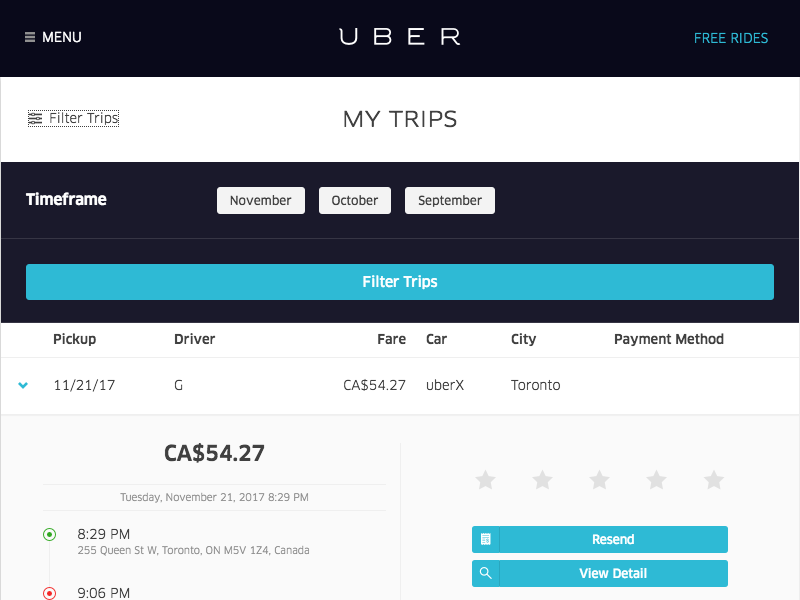
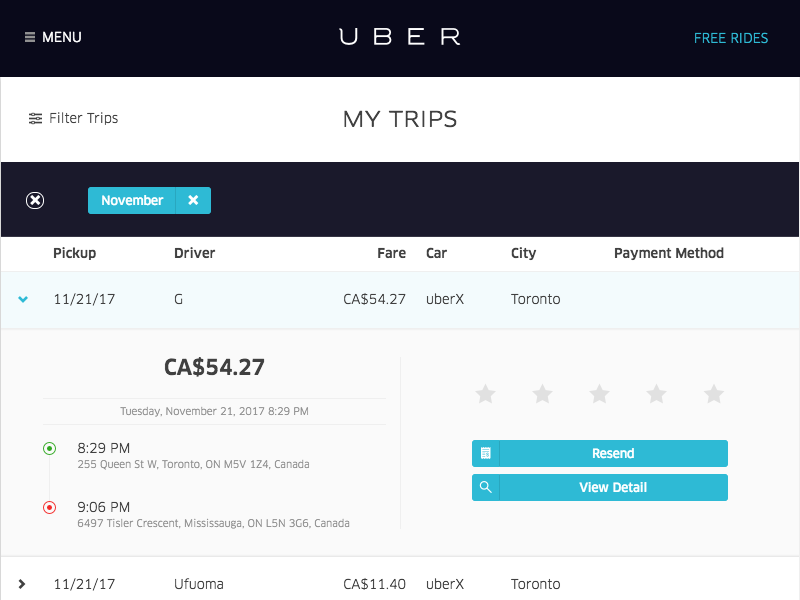
Made Filter work

diff --git a/index.js b/index.js
@@ -31,12 +31,6 @@ const VERIFY_BUTTON = '#app-body > div > div > form > button';
 const FILTER_TRIPS = '#slide-menu-content > div > div.flexbox__item.flexbox__item--expand > div > div > div.flexbox__item.four-fifths.page-content > div.hidden--palm > div > div > div.flexbox__item.one-third.text--left > a';
 const SUBMIT_FILTER = '#trip-filterer-button';
 
-// Sleep/delay Function
-function sleep(ms) {
-  return new Promise(resolve => setTimeout(resolve, ms));
-}
-
-prompt.start();
 
 async function run() {
   log(chalk.green.bold('Welcome to Get Receipt !\n'));
@@ -48,12 +42,15 @@ async function run() {
   const page = await browser.newPage();
 
   log(chalk.green('Setting user agent.'));
+
   // Set Random User Agent from array above
   await page.setUserAgent(desktop_agents[Math.floor(Math.random()*desktop_agents.length)]);
-
   log(chalk.green("Opening Uber's login screen.\n\n"))
+
+
   // Go to Login screen
   await page.goto('https://auth.uber.com/login/');
+  await page.waitFor(2 * 1000);
 
 
   log(chalk.green("Let's login to your Uber account."))
@@ -78,7 +75,7 @@ async function run() {
   await page.keyboard.type(email);
   await page.click(NEXT_BUTTON);
 
-  await sleep(1000);
+  await page.waitFor(2 * 1000);
 
   // Input Password for account
   await page.waitForSelector(PASSWORD_SELECTOR,200);
@@ -99,7 +96,7 @@ async function run() {
   await page.keyboard.type(password);
   await page.click(NEXT_BUTTON);
 
-  await sleep(1000);
+  await page.waitFor(2 * 1000);
 
   // Input SMS verification
   if(await page.$(SMS_SELECTOR) !== null) { // Check if we are on verification page first
@@ -116,15 +113,19 @@ async function run() {
       });
     })
     await page.click(SMS_SELECTOR);
-    await page.keyboard.type(code.verification_code);
+    await page.keyboard.type(code);
     await page.click(VERIFY_BUTTON);
   }
 
+  await page.waitFor(2 * 1000);
 
   /**
   * Main Dashboard
   */
   await page.goto('https://riders.uber.com');
+
+  await page.waitFor(2 * 1000);
+
 
   await page.waitForSelector(FILTER_TRIPS);
   await page.click(FILTER_TRIPS);
@@ -171,10 +172,20 @@ async function run() {
         choices: filterList
       }];
       inquirer.prompt(schema).then(answers => {
-        resolve(answers.filter);
+        const index = _.findIndex(filterList, { name: answers.filteroption });
+        resolve(filterList[index].id);
       })
     });
+
+    const FILTER_ITEM = "label[for="+filterSelected+"]";
+    
+      await page.waitFor(2 * 1000);
+    
+      await page.click(FILTER_ITEM);
+      await page.click(SUBMIT_FILTER);
   }
+
+  await page.waitFor(2 * 1000);
 
   // Click on filter and Apply
   // Collect All Detail Links and count invoices in Total
